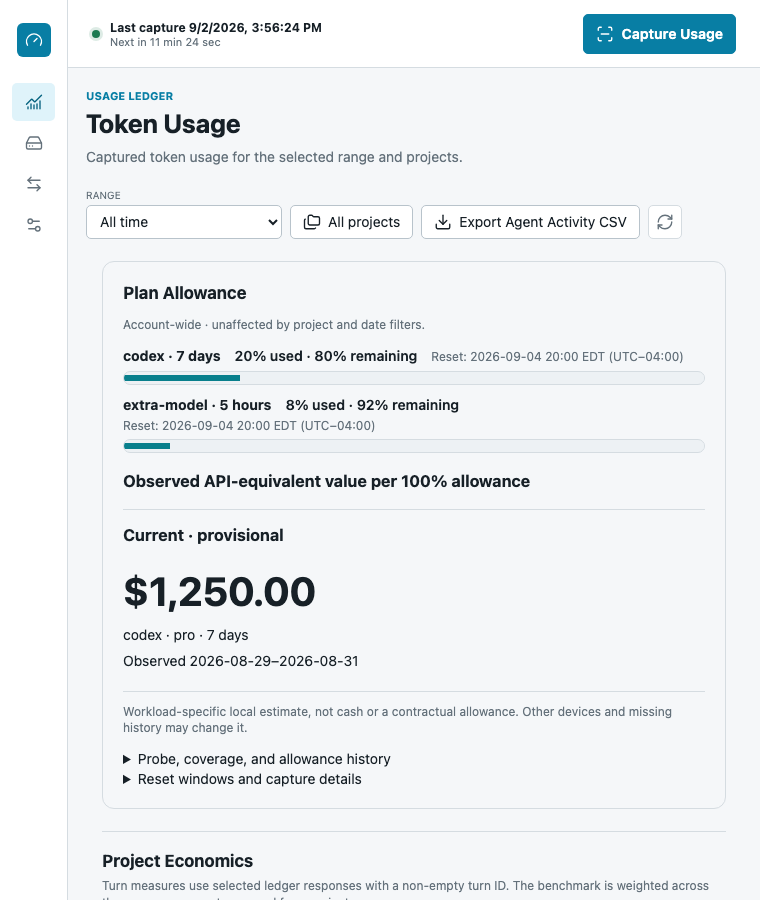
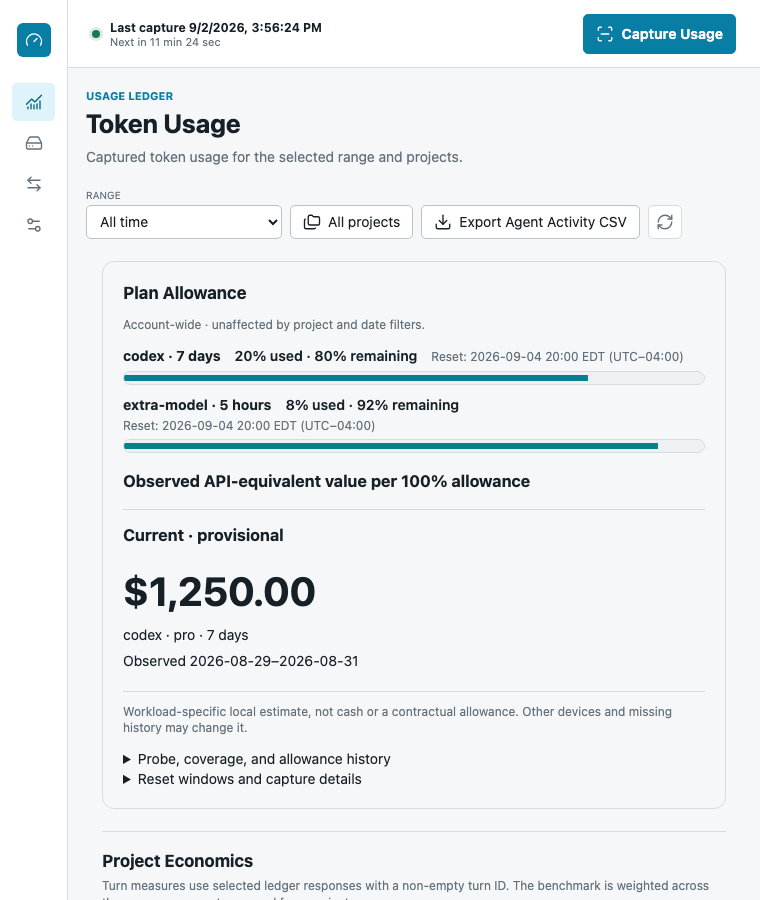
Release Codex Usage 2.8.8

Changed region(s): [[0.2118, 0.4667, 0.8776, 0.4978], [0.3026, 0.4044, 0.7868, 0.4356]]

diff --git a/apps/desktop/src/allowanceFixture.ts b/apps/desktop/src/allowanceFixture.ts
@@ -1,3 +1,3 @@
 // Generated by scripts/allowance_fixture.py; synthetic data only.
-export const allowanceHtml = "<section class=\"card plan-allowance\" id=\"plan-allowance\" aria-labelledby=\"plan-allowance-title\"><h2 id=\"plan-allowance-title\">Plan Allowance</h2><p class=\"muted\">Account-wide \u00b7 unaffected by project and date filters.</p><div class=\"allowance-buckets\"><div class=\"allowance-bucket\"><div class=\"allowance-bucket-summary\"><strong>codex \u00b7 7 days</strong><span class=\"allowance-bucket-usage\">20% used \u00b7 80% remaining</span><span class=\"muted allowance-bucket-reset\">Reset: <time datetime=\"2026-09-04T20:00-04:00\">2026-09-04 20:00 EDT (UTC\u221204:00)</time></span></div><meter min=\"0\" max=\"100\" value=\"20\" aria-label=\"codex \u00b7 7 days percentage used\" aria-valuetext=\"20% used\"></meter></div><div class=\"allowance-bucket\"><div class=\"allowance-bucket-summary\"><strong>extra-model \u00b7 5 hours</strong><span class=\"allowance-bucket-usage\">8% used \u00b7 92% remaining</span><span class=\"muted allowance-bucket-reset\">Reset: <time datetime=\"2026-09-04T20:00-04:00\">2026-09-04 20:00 EDT (UTC\u221204:00)</time></span></div><meter min=\"0\" max=\"100\" value=\"8\" aria-label=\"extra-model \u00b7 5 hours percentage used\" aria-valuetext=\"8% used\"></meter></div></div><h3>Observed API-equivalent value per 100% allowance</h3><div class=\"allowance-economics\"><div class=\"allowance-economic\"><h3>Current \u00b7 provisional</h3><p class=\"allowance-value\">$1,250.00</p><p>codex \u00b7 pro \u00b7 7 days</p><p>Observed 2026-08-29\u20132026-08-31</p></div></div><p class=\"muted\">Workload-specific local estimate, not cash or a contractual allowance. Other devices and missing history may change it.</p><details><summary>Probe, coverage, and allowance history</summary><p>Latest window fit: 20 percentage points, 5 bins, $250.00 local priced usage.</p><p>Plan: pro \u00b7 Probe: fresh \u00b7 Last checked: 2026-08-31T00:00:00+00:00 \u00b7 Last observed: Not captured</p><p>Probe diagnostic: None</p><p>Bounded recovered history: 72 sources checked, 8 pending, 0 unavailable. Endpoint sampling is partial.</p><p>Account lifetime tokens (coverage diagnostic only): 900000000</p><h3>Allowance history</h3><p class=\"muted allowance-history-count\">5 valid priced windows; newest first.</p><ol class=\"allowance-history\" aria-label=\"Allowance estimate history\"><li class=\"allowance-history-item allowance-history-current\"><div class=\"allowance-history-heading\"><span class=\"allowance-history-series\">codex \u00b7 pro \u00b7 7 days</span><strong class=\"allowance-history-value\">$1,250.00</strong></div><p class=\"allowance-history-meta\">Observed 2026-08-29\u20132026-08-31 \u00b7 Current \u00b7 Low/provisional confidence \u00b7 20 percentage points \u00b7 5 bins \u00b7 100% priced \u00b7 complete ledger</p></li><li class=\"allowance-history-item allowance-history-completed\"><div class=\"allowance-history-heading\"><span class=\"allowance-history-series\">codex \u00b7 pro \u00b7 7 days</span><strong class=\"allowance-history-value\">$1,260.00</strong></div><p class=\"allowance-history-meta\">Observed 2026-08-22\u20132026-08-28 \u00b7 Completed \u00b7 High confidence \u00b7 60 percentage points \u00b7 13 bins \u00b7 100% priced \u00b7 complete ledger</p></li><li class=\"allowance-history-item allowance-history-completed\"><div class=\"allowance-history-heading\"><span class=\"allowance-history-series\">codex \u00b7 pro \u00b7 7 days</span><strong class=\"allowance-history-value\">$1,220.00</strong></div><p class=\"allowance-history-meta\">Observed 2026-08-15\u20132026-08-21 \u00b7 Completed \u00b7 High confidence \u00b7 60 percentage points \u00b7 13 bins \u00b7 100% priced \u00b7 complete ledger</p></li><li class=\"allowance-history-item allowance-history-completed\"><div class=\"allowance-history-heading\"><span class=\"allowance-history-series\">codex \u00b7 pro \u00b7 7 days</span><strong class=\"allowance-history-value\">$1,240.00</strong></div><p class=\"allowance-history-meta\">Observed 2026-08-08\u20132026-08-14 \u00b7 Completed \u00b7 High confidence \u00b7 60 percentage points \u00b7 13 bins \u00b7 100% priced \u00b7 complete ledger</p></li><li class=\"allowance-history-item allowance-history-completed\"><div class=\"allowance-history-heading\"><span class=\"allowance-history-series\">codex \u00b7 pro \u00b7 7 days</span><strong class=\"allowance-history-value\">$1,180.00</strong></div><p class=\"allowance-history-meta\">Observed 2026-08-01\u20132026-08-07 \u00b7 Completed \u00b7 High confidence \u00b7 60 percentage points \u00b7 13 bins \u00b7 100% priced \u00b7 complete ledger</p></li></ol></details><details><summary>Reset windows and capture details</summary><p>Earlier qualified estimates (latest 3 of 4; all reset windows below):</p><ul><li>codex \u00b7 pro \u00b7 7 days \u00b7 Observed 2026-08-22\u20132026-08-28 \u00b7 $1,260.00 \u00b7 High</li><li>codex \u00b7 pro \u00b7 7 days \u00b7 Observed 2026-08-15\u20132026-08-21 \u00b7 $1,220.00 \u00b7 High</li><li>codex \u00b7 pro \u00b7 7 days \u00b7 Observed 2026-08-08\u20132026-08-14 \u00b7 $1,240.00 \u00b7 High</li></ul><details class=\"allowance-window allowance-provisional\"><summary>codex \u00b7 2026-08-29\u20132026-08-31 \u00b7 Low/provisional \u00b7 ongoing</summary><p>pro \u00b7 10080 min \u00b7 20 percentage points \u00b7 5 bins \u00b7 local cost span $250.00 \u00b7 $1,250.00</p><p>100% priced \u00b7 Complete local ledger</p><p>R\u00b2 1.000 \u00b7 sensitivity P90/P10 1.0 \u00b7 0 meter corrections</p><details><summary>Captured observations (5)</summary><p>All observations shown.</p><div class=\"table-scroll\"><table><thead><tr><th>Captured at</th><th>Used</th><th>Slot</th><th>Reset (Unix seconds)</th></tr></thead><tbody><tr><td>2026-08-29T00:00:00+00:00</td><td>0%</td><td>primary \u00b7 Recovered</td><td>1788566400</td></tr><tr><td>2026-08-29T12:00:00+00:00</td><td>5%</td><td>primary \u00b7 Recovered</td><td>1788566400</td></tr><tr><td>2026-08-30T00:00:00+00:00</td><td>10%</td><td>primary \u00b7 Recovered</td><td>1788566400</td></tr><tr><td>2026-08-30T12:00:00+00:00</td><td>15%</td><td>primary \u00b7 Recovered</td><td>1788566400</td></tr><tr><td>2026-08-31T00:00:00+00:00</td><td>20%</td><td>primary \u00b7 Recovered</td><td>1788566400</td></tr></tbody></table></div></details></details><details class=\"allowance-window\"><summary>codex \u00b7 2026-08-22\u20132026-08-28 \u00b7 High \u00b7 scheduled-compatible</summary><p>pro \u00b7 10080 min \u00b7 60 percentage points \u00b7 13 bins \u00b7 local cost span $756.00 \u00b7 $1,260.00</p><p>100% priced \u00b7 Complete local ledger</p><p>R\u00b2 1.000 \u00b7 sensitivity P90/P10 1.0 \u00b7 0 meter corrections</p><details><summary>Captured observations (13)</summary><p>All observations shown.</p><div class=\"table-scroll\"><table><thead><tr><th>Captured at</th><th>Used</th><th>Slot</th><th>Reset (Unix seconds)</th></tr></thead><tbody><tr><td>2026-08-22T00:00:00+00:00</td><td>0%</td><td>primary \u00b7 Recovered</td><td>1787961600</td></tr><tr><td>2026-08-22T12:00:00+00:00</td><td>5%</td><td>primary \u00b7 Recovered</td><td>1787961600</td></tr><tr><td>2026-08-23T00:00:00+00:00</td><td>10%</td><td>primary \u00b7 Recovered</td><td>1787961600</td></tr><tr><td>2026-08-23T12:00:00+00:00</td><td>15%</td><td>primary \u00b7 Recovered</td><td>1787961600</td></tr><tr><td>2026-08-24T00:00:00+00:00</td><td>20%</td><td>primary \u00b7 Recovered</td><td>1787961600</td></tr><tr><td>2026-08-24T12:00:00+00:00</td><td>25%</td><td>primary \u00b7 Recovered</td><td>1787961600</td></tr><tr><td>2026-08-25T00:00:00+00:00</td><td>30%</td><td>primary \u00b7 Recovered</td><td>1787961600</td></tr><tr><td>2026-08-25T12:00:00+00:00</td><td>35%</td><td>primary \u00b7 Recovered</td><td>1787961600</td></tr><tr><td>2026-08-26T00:00:00+00:00</td><td>40%</td><td>primary \u00b7 Recovered</td><td>1787961600</td></tr><tr><td>2026-08-26T12:00:00+00:00</td><td>45%</td><td>primary \u00b7 Recovered</td><td>1787961600</td></tr><tr><td>2026-08-27T00:00:00+00:00</td><td>50%</td><td>primary \u00b7 Recovered</td><td>1787961600</td></tr><tr><td>2026-08-27T12:00:00+00:00</td><td>55%</td><td>primary \u00b7 Recovered</td><td>1787961600</td></tr><tr><td>2026-08-28T00:00:00+00:00</td><td>60%</td><td>primary \u00b7 Recovered</td><td>1787961600</td></tr></tbody></table></div></details></details><details class=\"allowance-window\"><summary>codex \u00b7 2026-08-15\u20132026-08-21 \u00b7 High \u00b7 scheduled-compatible</summary><p>pro \u00b7 10080 min \u00b7 60 percentage points \u00b7 13 bins \u00b7 local cost span $732.00 \u00b7 $1,220.00</p><p>100% priced \u00b7 Complete local ledger</p><p>R\u00b2 1.000 \u00b7 sensitivity P90/P10 1.0 \u00b7 0 meter corrections</p><details><summary>Captured observations (13)</summary><p>All observations shown.</p><div class=\"table-scroll\"><table><thead><tr><th>Captured at</th><th>Used</th><th>Slot</th><th>Reset (Unix seconds)</th></tr></thead><tbody><tr><td>2026-08-15T00:00:00+00:00</td><td>0%</td><td>primary \u00b7 Recovered</td><td>1787356800</td></tr><tr><td>2026-08-15T12:00:00+00:00</td><td>5%</td><td>primary \u00b7 Recovered</td><td>1787356800</td></tr><tr><td>2026-08-16T00:00:00+00:00</td><td>10%</td><td>primary \u00b7 Recovered</td><td>1787356800</td></tr><tr><td>2026-08-16T12:00:00+00:00</td><td>15%</td><td>primary \u00b7 Recovered</td><td>1787356800</td></tr><tr><td>2026-08-17T00:00:00+00:00</td><td>20%</td><td>primary \u00b7 Recovered</td><td>1787356800</td></tr><tr><td>2026-08-17T12:00:00+00:00</td><td>25%</td><td>primary \u00b7 Recovered</td><td>1787356800</td></tr><tr><td>2026-08-18T00:00:00+00:00</td><td>30%</td><td>primary \u00b7 Recovered</td><td>1787356800</td></tr><tr><td>2026-08-18T12:00:00+00:00</td><td>35%</td><td>primary \u00b7 Recovered</td><td>1787356800</td></tr><tr><td>2026-08-19T00:00:00+00:00</td><td>40%</td><td>primary \u00b7 Recovered</td><td>1787356800</td></tr><tr><td>2026-08-19T12:00:00+00:00</td><td>45%</td><td>primary \u00b7 Recovered</td><td>1787356800</td></tr><tr><td>2026-08-20T00:00:00+00:00</td><td>50%</td><td>primary \u00b7 Recovered</td><td>1787356800</td></tr><tr><td>2026-08-20T12:00:00+00:00</td><td>55%</td><td>primary \u00b7 Recovered</td><td>1787356800</td></tr><tr><td>2026-08-21T00:00:00+00:00</td><td>60%</td><td>primary \u00b7 Recovered</td><td>1787356800</td></tr></tbody></table></div></details></details><details class=\"allowance-window\"><summary>codex \u00b7 2026-08-08\u20132026-08-14 \u00b7 High \u00b7 scheduled-compatible</summary><p>pro \u00b7 10080 min \u00b7 60 percentage points \u00b7 13 bins \u00b7 local cost span $744.00 \u00b7 $1,240.00</p><p>100% priced \u00b7 Complete local ledger</p><p>R\u00b2 1.000 \u00b7 sensitivity P90/P10 1.0 \u00b7 0 meter corrections</p><details><summary>Captured observations (13)</summary><p>All observations shown.</p><div class=\"table-scroll\"><table><thead><tr><th>Captured at</th><th>Used</th><th>Slot</th><th>Reset (Unix seconds)</th></tr></thead><tbody><tr><td>2026-08-08T00:00:00+00:00</td><td>0%</td><td>primary \u00b7 Recovered</td><td>1786752000</td></tr><tr><td>2026-08-08T12:00:00+00:00</td><td>5%</td><td>primary \u00b7 Recovered</td><td>1786752000</td></tr><tr><td>2026-08-09T00:00:00+00:00</td><td>10%</td><td>primary \u00b7 Recovered</td><td>1786752000</td></tr><tr><td>2026-08-09T12:00:00+00:00</td><td>15%</td><td>primary \u00b7 Recovered</td><td>1786752000</td></tr><tr><td>2026-08-10T00:00:00+00:00</td><td>20%</td><td>primary \u00b7 Recovered</td><td>1786752000</td></tr><tr><td>2026-08-10T12:00:00+00:00</td><td>25%</td><td>primary \u00b7 Recovered</td><td>1786752000</td></tr><tr><td>2026-08-11T00:00:00+00:00</td><td>30%</td><td>primary \u00b7 Recovered</td><td>1786752000</td></tr><tr><td>2026-08-11T12:00:00+00:00</td><td>35%</td><td>primary \u00b7 Recovered</td><td>1786752000</td></tr><tr><td>2026-08-12T00:00:00+00:00</td><td>40%</td><td>primary \u00b7 Recovered</td><td>1786752000</td></tr><tr><td>2026-08-12T12:00:00+00:00</td><td>45%</td><td>primary \u00b7 Recovered</td><td>1786752000</td></tr><tr><td>2026-08-13T00:00:00+00:00</td><td>50%</td><td>primary \u00b7 Recovered</td><td>1786752000</td></tr><tr><td>2026-08-13T12:00:00+00:00</td><td>55%</td><td>primary \u00b7 Recovered</td><td>1786752000</td></tr><tr><td>2026-08-14T00:00:00+00:00</td><td>60%</td><td>primary \u00b7 Recovered</td><td>1786752000</td></tr></tbody></table></div></details></details><details class=\"allowance-window\"><summary>codex \u00b7 2026-08-01\u20132026-08-07 \u00b7 High \u00b7 scheduled-compatible</summary><p>pro \u00b7 10080 min \u00b7 60 percentage points \u00b7 13 bins \u00b7 local cost span $708.00 \u00b7 $1,180.00</p><p>100% priced \u00b7 Complete local ledger</p><p>R\u00b2 1.000 \u00b7 sensitivity P90/P10 1.0 \u00b7 0 meter corrections</p><details><summary>Captured observations (13)</summary><p>All observations shown.</p><div class=\"table-scroll\"><table><thead><tr><th>Captured at</th><th>Used</th><th>Slot</th><th>Reset (Unix seconds)</th></tr></thead><tbody><tr><td>2026-08-01T00:00:00+00:00</td><td>0%</td><td>primary \u00b7 Recovered</td><td>1786147200</td></tr><tr><td>2026-08-01T12:00:00+00:00</td><td>5%</td><td>primary \u00b7 Recovered</td><td>1786147200</td></tr><tr><td>2026-08-02T00:00:00+00:00</td><td>10%</td><td>primary \u00b7 Recovered</td><td>1786147200</td></tr><tr><td>2026-08-02T12:00:00+00:00</td><td>15%</td><td>primary \u00b7 Recovered</td><td>1786147200</td></tr><tr><td>2026-08-03T00:00:00+00:00</td><td>20%</td><td>primary \u00b7 Recovered</td><td>1786147200</td></tr><tr><td>2026-08-03T12:00:00+00:00</td><td>25%</td><td>primary \u00b7 Recovered</td><td>1786147200</td></tr><tr><td>2026-08-04T00:00:00+00:00</td><td>30%</td><td>primary \u00b7 Recovered</td><td>1786147200</td></tr><tr><td>2026-08-04T12:00:00+00:00</td><td>35%</td><td>primary \u00b7 Recovered</td><td>1786147200</td></tr><tr><td>2026-08-05T00:00:00+00:00</td><td>40%</td><td>primary \u00b7 Recovered</td><td>1786147200</td></tr><tr><td>2026-08-05T12:00:00+00:00</td><td>45%</td><td>primary \u00b7 Recovered</td><td>1786147200</td></tr><tr><td>2026-08-06T00:00:00+00:00</td><td>50%</td><td>primary \u00b7 Recovered</td><td>1786147200</td></tr><tr><td>2026-08-06T12:00:00+00:00</td><td>55%</td><td>primary \u00b7 Recovered</td><td>1786147200</td></tr><tr><td>2026-08-07T00:00:00+00:00</td><td>60%</td><td>primary \u00b7 Recovered</td><td>1786147200</td></tr></tbody></table></div></details></details></details></section>";
+export const allowanceHtml = "<section class=\"card plan-allowance\" id=\"plan-allowance\" aria-labelledby=\"plan-allowance-title\"><h2 id=\"plan-allowance-title\">Plan Allowance</h2><p class=\"muted\">Account-wide \u00b7 unaffected by project and date filters.</p><div class=\"allowance-buckets\"><div class=\"allowance-bucket\"><div class=\"allowance-bucket-summary\"><strong>codex \u00b7 7 days</strong><span class=\"allowance-bucket-usage\">20% used \u00b7 80% remaining</span><span class=\"muted allowance-bucket-reset\">Reset: <time datetime=\"2026-09-04T20:00-04:00\">2026-09-04 20:00 EDT (UTC\u221204:00)</time></span></div><meter min=\"0\" max=\"100\" value=\"80\" aria-label=\"codex \u00b7 7 days percentage remaining\" aria-valuetext=\"80% remaining\"></meter></div><div class=\"allowance-bucket\"><div class=\"allowance-bucket-summary\"><strong>extra-model \u00b7 5 hours</strong><span class=\"allowance-bucket-usage\">8% used \u00b7 92% remaining</span><span class=\"muted allowance-bucket-reset\">Reset: <time datetime=\"2026-09-04T20:00-04:00\">2026-09-04 20:00 EDT (UTC\u221204:00)</time></span></div><meter min=\"0\" max=\"100\" value=\"92\" aria-label=\"extra-model \u00b7 5 hours percentage remaining\" aria-valuetext=\"92% remaining\"></meter></div></div><h3>Observed API-equivalent value per 100% allowance</h3><div class=\"allowance-economics\"><div class=\"allowance-economic\"><h3>Current \u00b7 provisional</h3><p class=\"allowance-value\">$1,250.00</p><p>codex \u00b7 pro \u00b7 7 days</p><p>Observed 2026-08-29\u20132026-08-31</p></div></div><p class=\"muted\">Workload-specific local estimate, not cash or a contractual allowance. Other devices and missing history may change it.</p><details><summary>Probe, coverage, and allowance history</summary><p>Latest window fit: 20 percentage points, 5 bins, $250.00 local priced usage.</p><p>Plan: pro \u00b7 Probe: fresh \u00b7 Last checked: 2026-08-31T00:00:00+00:00 \u00b7 Last observed: Not captured</p><p>Probe diagnostic: None</p><p>Bounded recovered history: 72 sources checked, 8 pending, 0 unavailable. Endpoint sampling is partial.</p><p>Account lifetime tokens (coverage diagnostic only): 900000000</p><h3>Allowance history</h3><p class=\"muted allowance-history-count\">5 valid priced windows; newest first.</p><ol class=\"allowance-history\" aria-label=\"Allowance estimate history\"><li class=\"allowance-history-item allowance-history-current\"><div class=\"allowance-history-heading\"><span class=\"allowance-history-series\">codex \u00b7 pro \u00b7 7 days</span><strong class=\"allowance-history-value\">$1,250.00</strong></div><p class=\"allowance-history-meta\">Observed 2026-08-29\u20132026-08-31 \u00b7 Current \u00b7 Low/provisional confidence \u00b7 20 percentage points \u00b7 5 bins \u00b7 100% priced \u00b7 complete ledger</p></li><li class=\"allowance-history-item allowance-history-completed\"><div class=\"allowance-history-heading\"><span class=\"allowance-history-series\">codex \u00b7 pro \u00b7 7 days</span><strong class=\"allowance-history-value\">$1,260.00</strong></div><p class=\"allowance-history-meta\">Observed 2026-08-22\u20132026-08-28 \u00b7 Completed \u00b7 High confidence \u00b7 60 percentage points \u00b7 13 bins \u00b7 100% priced \u00b7 complete ledger</p></li><li class=\"allowance-history-item allowance-history-completed\"><div class=\"allowance-history-heading\"><span class=\"allowance-history-series\">codex \u00b7 pro \u00b7 7 days</span><strong class=\"allowance-history-value\">$1,220.00</strong></div><p class=\"allowance-history-meta\">Observed 2026-08-15\u20132026-08-21 \u00b7 Completed \u00b7 High confidence \u00b7 60 percentage points \u00b7 13 bins \u00b7 100% priced \u00b7 complete ledger</p></li><li class=\"allowance-history-item allowance-history-completed\"><div class=\"allowance-history-heading\"><span class=\"allowance-history-series\">codex \u00b7 pro \u00b7 7 days</span><strong class=\"allowance-history-value\">$1,240.00</strong></div><p class=\"allowance-history-meta\">Observed 2026-08-08\u20132026-08-14 \u00b7 Completed \u00b7 High confidence \u00b7 60 percentage points \u00b7 13 bins \u00b7 100% priced \u00b7 complete ledger</p></li><li class=\"allowance-history-item allowance-history-completed\"><div class=\"allowance-history-heading\"><span class=\"allowance-history-series\">codex \u00b7 pro \u00b7 7 days</span><strong class=\"allowance-history-value\">$1,180.00</strong></div><p class=\"allowance-history-meta\">Observed 2026-08-01\u20132026-08-07 \u00b7 Completed \u00b7 High confidence \u00b7 60 percentage points \u00b7 13 bins \u00b7 100% priced \u00b7 complete ledger</p></li></ol></details><details><summary>Reset windows and capture details</summary><p>Earlier qualified estimates (latest 3 of 4; all reset windows below):</p><ul><li>codex \u00b7 pro \u00b7 7 days \u00b7 Observed 2026-08-22\u20132026-08-28 \u00b7 $1,260.00 \u00b7 High</li><li>codex \u00b7 pro \u00b7 7 days \u00b7 Observed 2026-08-15\u20132026-08-21 \u00b7 $1,220.00 \u00b7 High</li><li>codex \u00b7 pro \u00b7 7 days \u00b7 Observed 2026-08-08\u20132026-08-14 \u00b7 $1,240.00 \u00b7 High</li></ul><details class=\"allowance-window allowance-provisional\"><summary>codex \u00b7 2026-08-29\u20132026-08-31 \u00b7 Low/provisional \u00b7 ongoing</summary><p>pro \u00b7 10080 min \u00b7 20 percentage points \u00b7 5 bins \u00b7 local cost span $250.00 \u00b7 $1,250.00</p><p>100% priced \u00b7 Complete local ledger</p><p>R\u00b2 1.000 \u00b7 sensitivity P90/P10 1.0 \u00b7 0 meter corrections</p><details><summary>Captured observations (5)</summary><p>All observations shown.</p><div class=\"table-scroll\"><table><thead><tr><th>Captured at</th><th>Used</th><th>Slot</th><th>Reset (Unix seconds)</th></tr></thead><tbody><tr><td>2026-08-29T00:00:00+00:00</td><td>0%</td><td>primary \u00b7 Recovered</td><td>1788566400</td></tr><tr><td>2026-08-29T12:00:00+00:00</td><td>5%</td><td>primary \u00b7 Recovered</td><td>1788566400</td></tr><tr><td>2026-08-30T00:00:00+00:00</td><td>10%</td><td>primary \u00b7 Recovered</td><td>1788566400</td></tr><tr><td>2026-08-30T12:00:00+00:00</td><td>15%</td><td>primary \u00b7 Recovered</td><td>1788566400</td></tr><tr><td>2026-08-31T00:00:00+00:00</td><td>20%</td><td>primary \u00b7 Recovered</td><td>1788566400</td></tr></tbody></table></div></details></details><details class=\"allowance-window\"><summary>codex \u00b7 2026-08-22\u20132026-08-28 \u00b7 High \u00b7 scheduled-compatible</summary><p>pro \u00b7 10080 min \u00b7 60 percentage points \u00b7 13 bins \u00b7 local cost span $756.00 \u00b7 $1,260.00</p><p>100% priced \u00b7 Complete local ledger</p><p>R\u00b2 1.000 \u00b7 sensitivity P90/P10 1.0 \u00b7 0 meter corrections</p><details><summary>Captured observations (13)</summary><p>All observations shown.</p><div class=\"table-scroll\"><table><thead><tr><th>Captured at</th><th>Used</th><th>Slot</th><th>Reset (Unix seconds)</th></tr></thead><tbody><tr><td>2026-08-22T00:00:00+00:00</td><td>0%</td><td>primary \u00b7 Recovered</td><td>1787961600</td></tr><tr><td>2026-08-22T12:00:00+00:00</td><td>5%</td><td>primary \u00b7 Recovered</td><td>1787961600</td></tr><tr><td>2026-08-23T00:00:00+00:00</td><td>10%</td><td>primary \u00b7 Recovered</td><td>1787961600</td></tr><tr><td>2026-08-23T12:00:00+00:00</td><td>15%</td><td>primary \u00b7 Recovered</td><td>1787961600</td></tr><tr><td>2026-08-24T00:00:00+00:00</td><td>20%</td><td>primary \u00b7 Recovered</td><td>1787961600</td></tr><tr><td>2026-08-24T12:00:00+00:00</td><td>25%</td><td>primary \u00b7 Recovered</td><td>1787961600</td></tr><tr><td>2026-08-25T00:00:00+00:00</td><td>30%</td><td>primary \u00b7 Recovered</td><td>1787961600</td></tr><tr><td>2026-08-25T12:00:00+00:00</td><td>35%</td><td>primary \u00b7 Recovered</td><td>1787961600</td></tr><tr><td>2026-08-26T00:00:00+00:00</td><td>40%</td><td>primary \u00b7 Recovered</td><td>1787961600</td></tr><tr><td>2026-08-26T12:00:00+00:00</td><td>45%</td><td>primary \u00b7 Recovered</td><td>1787961600</td></tr><tr><td>2026-08-27T00:00:00+00:00</td><td>50%</td><td>primary \u00b7 Recovered</td><td>1787961600</td></tr><tr><td>2026-08-27T12:00:00+00:00</td><td>55%</td><td>primary \u00b7 Recovered</td><td>1787961600</td></tr><tr><td>2026-08-28T00:00:00+00:00</td><td>60%</td><td>primary \u00b7 Recovered</td><td>1787961600</td></tr></tbody></table></div></details></details><details class=\"allowance-window\"><summary>codex \u00b7 2026-08-15\u20132026-08-21 \u00b7 High \u00b7 scheduled-compatible</summary><p>pro \u00b7 10080 min \u00b7 60 percentage points \u00b7 13 bins \u00b7 local cost span $732.00 \u00b7 $1,220.00</p><p>100% priced \u00b7 Complete local ledger</p><p>R\u00b2 1.000 \u00b7 sensitivity P90/P10 1.0 \u00b7 0 meter corrections</p><details><summary>Captured observations (13)</summary><p>All observations shown.</p><div class=\"table-scroll\"><table><thead><tr><th>Captured at</th><th>Used</th><th>Slot</th><th>Reset (Unix seconds)</th></tr></thead><tbody><tr><td>2026-08-15T00:00:00+00:00</td><td>0%</td><td>primary \u00b7 Recovered</td><td>1787356800</td></tr><tr><td>2026-08-15T12:00:00+00:00</td><td>5%</td><td>primary \u00b7 Recovered</td><td>1787356800</td></tr><tr><td>2026-08-16T00:00:00+00:00</td><td>10%</td><td>primary \u00b7 Recovered</td><td>1787356800</td></tr><tr><td>2026-08-16T12:00:00+00:00</td><td>15%</td><td>primary \u00b7 Recovered</td><td>1787356800</td></tr><tr><td>2026-08-17T00:00:00+00:00</td><td>20%</td><td>primary \u00b7 Recovered</td><td>1787356800</td></tr><tr><td>2026-08-17T12:00:00+00:00</td><td>25%</td><td>primary \u00b7 Recovered</td><td>1787356800</td></tr><tr><td>2026-08-18T00:00:00+00:00</td><td>30%</td><td>primary \u00b7 Recovered</td><td>1787356800</td></tr><tr><td>2026-08-18T12:00:00+00:00</td><td>35%</td><td>primary \u00b7 Recovered</td><td>1787356800</td></tr><tr><td>2026-08-19T00:00:00+00:00</td><td>40%</td><td>primary \u00b7 Recovered</td><td>1787356800</td></tr><tr><td>2026-08-19T12:00:00+00:00</td><td>45%</td><td>primary \u00b7 Recovered</td><td>1787356800</td></tr><tr><td>2026-08-20T00:00:00+00:00</td><td>50%</td><td>primary \u00b7 Recovered</td><td>1787356800</td></tr><tr><td>2026-08-20T12:00:00+00:00</td><td>55%</td><td>primary \u00b7 Recovered</td><td>1787356800</td></tr><tr><td>2026-08-21T00:00:00+00:00</td><td>60%</td><td>primary \u00b7 Recovered</td><td>1787356800</td></tr></tbody></table></div></details></details><details class=\"allowance-window\"><summary>codex \u00b7 2026-08-08\u20132026-08-14 \u00b7 High \u00b7 scheduled-compatible</summary><p>pro \u00b7 10080 min \u00b7 60 percentage points \u00b7 13 bins \u00b7 local cost span $744.00 \u00b7 $1,240.00</p><p>100% priced \u00b7 Complete local ledger</p><p>R\u00b2 1.000 \u00b7 sensitivity P90/P10 1.0 \u00b7 0 meter corrections</p><details><summary>Captured observations (13)</summary><p>All observations shown.</p><div class=\"table-scroll\"><table><thead><tr><th>Captured at</th><th>Used</th><th>Slot</th><th>Reset (Unix seconds)</th></tr></thead><tbody><tr><td>2026-08-08T00:00:00+00:00</td><td>0%</td><td>primary \u00b7 Recovered</td><td>1786752000</td></tr><tr><td>2026-08-08T12:00:00+00:00</td><td>5%</td><td>primary \u00b7 Recovered</td><td>1786752000</td></tr><tr><td>2026-08-09T00:00:00+00:00</td><td>10%</td><td>primary \u00b7 Recovered</td><td>1786752000</td></tr><tr><td>2026-08-09T12:00:00+00:00</td><td>15%</td><td>primary \u00b7 Recovered</td><td>1786752000</td></tr><tr><td>2026-08-10T00:00:00+00:00</td><td>20%</td><td>primary \u00b7 Recovered</td><td>1786752000</td></tr><tr><td>2026-08-10T12:00:00+00:00</td><td>25%</td><td>primary \u00b7 Recovered</td><td>1786752000</td></tr><tr><td>2026-08-11T00:00:00+00:00</td><td>30%</td><td>primary \u00b7 Recovered</td><td>1786752000</td></tr><tr><td>2026-08-11T12:00:00+00:00</td><td>35%</td><td>primary \u00b7 Recovered</td><td>1786752000</td></tr><tr><td>2026-08-12T00:00:00+00:00</td><td>40%</td><td>primary \u00b7 Recovered</td><td>1786752000</td></tr><tr><td>2026-08-12T12:00:00+00:00</td><td>45%</td><td>primary \u00b7 Recovered</td><td>1786752000</td></tr><tr><td>2026-08-13T00:00:00+00:00</td><td>50%</td><td>primary \u00b7 Recovered</td><td>1786752000</td></tr><tr><td>2026-08-13T12:00:00+00:00</td><td>55%</td><td>primary \u00b7 Recovered</td><td>1786752000</td></tr><tr><td>2026-08-14T00:00:00+00:00</td><td>60%</td><td>primary \u00b7 Recovered</td><td>1786752000</td></tr></tbody></table></div></details></details><details class=\"allowance-window\"><summary>codex \u00b7 2026-08-01\u20132026-08-07 \u00b7 High \u00b7 scheduled-compatible</summary><p>pro \u00b7 10080 min \u00b7 60 percentage points \u00b7 13 bins \u00b7 local cost span $708.00 \u00b7 $1,180.00</p><p>100% priced \u00b7 Complete local ledger</p><p>R\u00b2 1.000 \u00b7 sensitivity P90/P10 1.0 \u00b7 0 meter corrections</p><details><summary>Captured observations (13)</summary><p>All observations shown.</p><div class=\"table-scroll\"><table><thead><tr><th>Captured at</th><th>Used</th><th>Slot</th><th>Reset (Unix seconds)</th></tr></thead><tbody><tr><td>2026-08-01T00:00:00+00:00</td><td>0%</td><td>primary \u00b7 Recovered</td><td>1786147200</td></tr><tr><td>2026-08-01T12:00:00+00:00</td><td>5%</td><td>primary \u00b7 Recovered</td><td>1786147200</td></tr><tr><td>2026-08-02T00:00:00+00:00</td><td>10%</td><td>primary \u00b7 Recovered</td><td>1786147200</td></tr><tr><td>2026-08-02T12:00:00+00:00</td><td>15%</td><td>primary \u00b7 Recovered</td><td>1786147200</td></tr><tr><td>2026-08-03T00:00:00+00:00</td><td>20%</td><td>primary \u00b7 Recovered</td><td>1786147200</td></tr><tr><td>2026-08-03T12:00:00+00:00</td><td>25%</td><td>primary \u00b7 Recovered</td><td>1786147200</td></tr><tr><td>2026-08-04T00:00:00+00:00</td><td>30%</td><td>primary \u00b7 Recovered</td><td>1786147200</td></tr><tr><td>2026-08-04T12:00:00+00:00</td><td>35%</td><td>primary \u00b7 Recovered</td><td>1786147200</td></tr><tr><td>2026-08-05T00:00:00+00:00</td><td>40%</td><td>primary \u00b7 Recovered</td><td>1786147200</td></tr><tr><td>2026-08-05T12:00:00+00:00</td><td>45%</td><td>primary \u00b7 Recovered</td><td>1786147200</td></tr><tr><td>2026-08-06T00:00:00+00:00</td><td>50%</td><td>primary \u00b7 Recovered</td><td>1786147200</td></tr><tr><td>2026-08-06T12:00:00+00:00</td><td>55%</td><td>primary \u00b7 Recovered</td><td>1786147200</td></tr><tr><td>2026-08-07T00:00:00+00:00</td><td>60%</td><td>primary \u00b7 Recovered</td><td>1786147200</td></tr></tbody></table></div></details></details></details></section>";
 export const allowanceCss = "\n.plan-allowance { margin: 18px 0; padding: 20px; border: 1px solid var(--border, var(--line)); border-radius: 12px; overflow-wrap: anywhere; }\n.allowance-buckets { display: grid; grid-template-columns: repeat(auto-fit,minmax(min(320px,100%),1fr)); gap: 10px 18px; }\n.allowance-bucket { min-width: 0; }\n.allowance-bucket-summary { display: flex; align-items: baseline; flex-wrap: wrap; column-gap: 14px; row-gap: 3px; }\n.allowance-bucket-summary > * { min-width: 0; margin: 0; }\n.allowance-bucket-usage { font-weight: 600; }\n.allowance-bucket-reset { overflow-wrap: anywhere; }\n.allowance-economics { border-top: 1px solid var(--border, var(--line)); border-bottom: 1px solid var(--border, var(--line)); padding: 14px 0; }\n.allowance-economic { min-width: 0; }\n.allowance-economic h3 { margin-top: 0; }\n.allowance-economic p { margin: 6px 0; }\n.allowance-economic .allowance-value { font-size: 2.5rem; }\n.allowance-bucket meter { -webkit-appearance: none; appearance: none; display: block; width: 100%; height: 14px; margin-top: 5px; padding: 0; color: var(--accent, var(--astra, #087ea4)); background: var(--surface-soft, var(--soft, #edf1f4)); border: 1px solid var(--border, var(--line, #d5dce1)); border-radius: 999px; overflow: hidden; }\n.allowance-bucket meter::-webkit-meter-bar { background: var(--surface-soft, var(--soft, #edf1f4)); border: 0; border-radius: inherit; }\n.allowance-bucket meter::-webkit-meter-optimum-value,\n.allowance-bucket meter::-webkit-meter-suboptimum-value,\n.allowance-bucket meter::-webkit-meter-even-less-good-value { background: var(--accent, var(--astra, #087ea4)); border-radius: inherit; }\n.allowance-bucket meter::-moz-meter-bar { background: var(--accent, var(--astra, #087ea4)); border-radius: inherit; }\n.allowance-history { list-style: none; margin: 8px 0 0; padding: 0; }\n.allowance-history-item { min-width: 0; padding: 9px 0; border-top: 1px solid var(--border, var(--line)); }\n.allowance-history-heading { display: flex; align-items: baseline; justify-content: space-between; flex-wrap: wrap; gap: 4px 12px; min-width: 0; }\n.allowance-history-series { min-width: 0; font-weight: 600; overflow-wrap: anywhere; }\n.allowance-history-value { font-variant-numeric: tabular-nums; overflow-wrap: anywhere; }\n.allowance-history-meta { margin: 4px 0 0; color: var(--muted, #64717b); overflow-wrap: anywhere; }\n.allowance-history-count { margin: 6px 0 0; }\n.allowance-value { font-size: 1.35rem; font-weight: 700; }\n.allowance-window { margin: 12px 0; padding: 10px; border: 1px solid var(--border, var(--line)); }\n.allowance-provisional { border-style: dashed; }\n.plan-allowance summary { cursor: pointer; }\n.plan-allowance summary:focus-visible { outline: 2px solid var(--accent, var(--astra, #087ea4)); outline-offset: 2px; border-radius: 2px; }\n.plan-allowance .table-scroll { overflow-x: auto; }\n";

diff --git a/apps/desktop/src/usageFixtureReport.ts b/apps/desktop/src/usageFixtureReport.ts
@@ -222,8 +222,8 @@ ${allowanceHtml}
   </tbody></table></div></details>
 </section>
 <section class="section usage-comparison">
-  <input class="scale-input" type="radio" name="usage-chart-scale" id="compare-scale-tokens" value="tokens" checked>
-  <input class="scale-input" type="radio" name="usage-chart-scale" id="compare-scale-cost" value="cost">
+  <input class="scale-input" type="radio" name="usage-chart-scale" id="compare-scale-tokens" value="tokens">
+  <input class="scale-input" type="radio" name="usage-chart-scale" id="compare-scale-cost" value="cost" checked>
   <div class="scale-toolbar"><span>Compare by</span><span class="scale-options" role="group" aria-label="Compare chart bars by"><label for="compare-scale-tokens">Tokens</label><label for="compare-scale-cost">API cost</label></span></div>
   <div class="comparison-charts">
 <section class="section">

diff --git a/scripts/generate_marketplace_screenshot.py b/scripts/generate_marketplace_screenshot.py
@@ -282,33 +282,33 @@ def _exercise_usage_chart_controls(page: Page) -> None:
                         f"viewport={viewport}"
                     )
 
-            if not token_control.is_checked():
-                raise RuntimeError("usage fixture did not start from the token scale")
-            token_box = role_fill.bounding_box()
-            model_token_box = model_fill.bounding_box()
-            if token_box is None:
+            if not cost_control.is_checked():
+                raise RuntimeError("usage fixture did not default to API cost")
+            cost_box = role_fill.bounding_box()
+            model_cost_box = model_fill.bounding_box()
+            if cost_box is None:
                 raise RuntimeError(
                     "usage fixture is missing the project role scale probe"
                 )
-            if model_token_box is None:
+            if model_cost_box is None:
                 raise RuntimeError("usage fixture is missing the Model Mix scale probe")
 
-            token_control.focus()
-            token_control.press("ArrowRight")
-            if not cost_control.is_checked():
-                raise RuntimeError("usage fixture keyboard did not select API cost")
-            cost_box = role_fill.bounding_box()
-            if cost_box is None or abs(token_box["width"] - cost_box["width"]) < 4:
+            cost_control.focus()
+            cost_control.press("ArrowLeft")
+            if not token_control.is_checked():
+                raise RuntimeError("usage fixture keyboard did not select Tokens")
+            token_box = role_fill.bounding_box()
+            if token_box is None or abs(cost_box["width"] - token_box["width"]) < 4:
                 raise RuntimeError(
-                    "usage fixture API cost scale did not change bar geometry"
+                    "usage fixture Tokens scale did not change project bar geometry"
                 )
-            model_cost_box = model_fill.bounding_box()
+            model_token_box = model_fill.bounding_box()
             if (
-                model_cost_box is None
-                or abs(model_token_box["width"] - model_cost_box["width"]) < 4
+                model_token_box is None
+                or abs(model_cost_box["width"] - model_token_box["width"]) < 4
             ):
                 raise RuntimeError(
-                    "usage fixture API cost scale did not change Model Mix geometry"
+                    "usage fixture Tokens scale did not change Model Mix geometry"
                 )
 
             tracks = frame.locator(".mix-track")
@@ -328,10 +328,10 @@ def _exercise_usage_chart_controls(page: Page) -> None:
                     "usage fixture Model Mix tracks do not share equal bounds"
                 )
 
-            cost_control.focus()
-            cost_control.press("ArrowLeft")
-            if not token_control.is_checked():
-                raise RuntimeError("usage fixture keyboard did not restore Tokens")
+            token_control.focus()
+            token_control.press("ArrowRight")
+            if not cost_control.is_checked():
+                raise RuntimeError("usage fixture keyboard did not restore API cost")
 
     _set_viewport(page, VIEWPORT)
 

diff --git a/scripts/check_allowance_ui.py b/scripts/check_allowance_ui.py
@@ -129,10 +129,12 @@ def _check_report_content(page, report, state, theme, history_colors):
     assert page.get_by_role("meter").count() == len(report["status"]["active_buckets"])
     for bucket in report["status"]["active_buckets"]:
         identity = f'{bucket["limit_id"]} · {duration_label(bucket["duration_minutes"])}'
-        meter = page.get_by_role("meter", name=f"{identity} percentage used")
+        meter = page.get_by_role("meter", name=f"{identity} percentage remaining")
         assert meter.count() == 1
         used = bucket["used_percent"]
-        assert meter.get_attribute("aria-valuetext") == f"{used:g}% used"
+        remaining = 100 - used
+        assert meter.get_attribute("value") == f"{remaining:g}"
+        assert meter.get_attribute("aria-valuetext") == f"{remaining:g}% remaining"
         assert page.locator(".allowance-bucket-usage").filter(
             has_text=f"{used:g}% used · {100 - used:g}% remaining"
         ).count() == 1
@@ -223,18 +225,21 @@ def _contrast_ratio(first, second):
 def _check_meter_visuals(page, browser_name):
     for theme in THEMES:
         for used in VALUES:
+            remaining = 100 - used
             report = deepcopy(allowance_fixture())
             report["status"]["active_buckets"] = [
                 dict(report["status"]["active_buckets"][0], used_percent=used)
             ]
             page.set_viewport_size({"width": 360, "height": 240})
             page.set_content(_document(report, theme))
-            meter = page.get_by_role("meter", name="codex · 7 days percentage used")
+            meter = page.get_by_role(
+                "meter", name="codex · 7 days percentage remaining"
+            )
             assert meter.count() == 1
             assert meter.get_attribute("min") == "0"
             assert meter.get_attribute("max") == "100"
-            assert meter.get_attribute("value") == str(used)
-            assert meter.get_attribute("aria-valuetext") == f"{used}% used"
+            assert meter.get_attribute("value") == str(remaining)
+            assert meter.get_attribute("aria-valuetext") == f"{remaining}% remaining"
             assert page.locator(".allowance-bucket-usage").inner_text() == (
                 f"{used}% used · {100 - used}% remaining"
             )
@@ -262,9 +267,9 @@ def _check_meter_visuals(page, browser_name):
             image = Image.open(BytesIO(meter.screenshot())).convert("RGB")
             center_row = [image.getpixel((x, image.height // 2)) for x in range(image.width)]
             colored_fraction = sum(pixel == accent_rgb for pixel in center_row) / image.width
-            assert abs(colored_fraction - used / 100) <= 0.04, (
+            assert abs(colored_fraction - remaining / 100) <= 0.04, (
                 f"{browser_name}/{theme} meter at {used}% has {colored_fraction:.3f} "
-                "accent fill across its center row"
+                "accent fill across its center row; expected remaining allowance"
             )
 
 

diff --git a/tests/test_github_actions_workflow.py b/tests/test_github_actions_workflow.py
@@ -159,7 +159,7 @@ def test_preview_artifacts_include_hash_based_integrity_metadata(tmp_path: Path)
         )
 
 
-def test_release_metadata_is_consistently_2_8_7() -> None:
+def test_release_metadata_is_consistently_versioned() -> None:
     pyproject = tomllib.loads(PYPROJECT.read_text(encoding="utf-8"))
     uv_lock = tomllib.loads(UV_LOCK.read_text(encoding="utf-8"))
     extension = json.loads(EXTENSION_PACKAGE.read_text(encoding="utf-8"))
@@ -192,7 +192,7 @@ def test_release_metadata_is_consistently_2_8_7() -> None:
         cargo["package"]["version"],
         rust_package["version"],
     }
-    assert versions == {"2.8.7"}
+    assert versions == {extension["version"]}
     assert "scripts" not in pyproject["project"]
     assert "preview" not in extension
 

diff --git a/tests/test_release_history.py b/tests/test_release_history.py
@@ -10,6 +10,7 @@ CHANGELOGS = (ROOT / "CHANGELOG.md", ROOT / "extensions/vscode/CHANGELOG.md")
 SUPPORT_DOCS = (ROOT / "SUPPORT.md", ROOT / "extensions/vscode/SUPPORT.md")
 
 ROOT_RELEASE_DATES = {
+    "2.8.8": "2026-09-25",
     "2.8.7": "2026-09-25",
     "2.8.6": "2026-09-25",
     "2.8.5": "2026-09-24",
@@ -92,6 +93,7 @@ ROOT_RELEASE_DATES = {
     "0.1.0": "2026-05-19",
 }
 EXTENSION_RELEASE_VERSIONS = (
+    "2.8.8",
     "2.8.7",
     "2.8.6",
     "2.8.5",

diff --git a/tests/test_report_storage.py b/tests/test_report_storage.py
@@ -124,7 +124,8 @@ def test_task_storage_empty_state_does_not_replace_usage_empty_state(tmp_path: P
 
     assert "No task storage was found for the selected projects." in html
     assert "No Codex usage was found for this report range." not in html
-    assert "No daily usage found for this range." in html
+    assert "No daily usage found for this range." not in html
+    assert "Daily Details" not in html
 
 
 def _render(

diff --git a/src/codex_usage/__init__.py b/src/codex_usage/__init__.py
@@ -1,3 +1,3 @@
 """Private capture and ledger core for the Codex Usage native app."""
 
-__version__ = "2.8.7"
+__version__ = "2.8.8"

diff --git a/docs/release.md b/docs/release.md
@@ -1,16 +1,21 @@
-# 2.8.7 Distribution Checklist
+# 2.8.8 Distribution Checklist
 
-Version 2.8.7 publishes standalone macOS Apple Silicon and Windows x64 VSIX
+Version 2.8.8 publishes standalone macOS Apple Silicon and Windows x64 VSIX
 packages to the VS Code Marketplace. Each VSIX bundles its matching collector
 and does not require the native application.
 
-For the device-identity capture failure corrected in 2.8.7, install the
-matching updated VSIX, reload VS Code so its bundled collector restarts, then
-use **Capture Usage**. If an optional native background collector owns the
-active home, update that preview and re-register its background agent before
-capturing. Preserve the existing ledger; **Reset Local Data** is not a recovery
-step. A verified source continuation appends to its trusted generation, while
-a changed processed boundary promotes a distinct generation.
+The Usage report shows remaining allowance in the Plan Allowance meter, defaults
+the shared **Compare by** control to API cost, and omits the one-point daily
+trend and details for Today and Yesterday presets. Custom ranges retain daily
+details.
+
+The 2.8.8 packages also include the device-identity capture correction from
+2.8.7. Preserve the existing ledger, install the matching updated VSIX, reload
+VS Code so its bundled collector restarts, then use **Capture Usage**. If an
+optional native background collector owns the active home, update that preview
+and re-register its background agent before capturing. **Reset Local Data** is
+not a recovery step. A verified source continuation appends to its trusted
+generation, while a changed processed boundary promotes a distinct generation.
 
 The same workflow builds unsigned native DMG and NSIS previews with SHA-256
 integrity metadata. Native previews are retained as GitHub Actions artifacts for
@@ -90,8 +95,8 @@ sizes (1440 x 900 and 760 x 900). Confirm:
 - Usage clearly shows last/next capture, pending work, incomplete baseline, and
   stale-source states;
 - Project Breakdown and Model Mix share one accessible **Compare by** control,
-  use distinct stable colors, preserve role-level API-equivalent cost, and
-  switch coherently between token-scaled and cost-scaled bars;
+  default to API cost, use distinct stable colors, preserve role-level
+  API-equivalent cost, and switch coherently to token-scaled bars;
 - Plan Allowance stays account-wide under project/date filters, exposes active
   buckets, shows a valid current estimate or an explicitly dated same-series
   Previous window fallback, and exposes newest-first allowance history with
@@ -129,8 +134,8 @@ uv run python scripts/check_allowance_ui.py
 ```
 
 The allowance UI gate runs the native `<meter>` renderer in Chromium, WebKit,
-and Firefox. It checks native meter semantics and explicit used/remaining text,
-accent fill direction at 0%, 17%, 83%, and 100%, theme contrast, keyboard focus,
+and Firefox. It checks native meter semantics, used/remaining text, remaining
+allowance fill at 0%, 17%, 83%, and 100% used, theme contrast, keyboard focus,
 and narrow viewport overflow. Visually review the canonical Usage images in Day
 and Night at both wide and narrow widths, plus the Task Storage image, before
 committing them. The automated gate catches geometry and overflow regressions,
@@ -159,16 +164,16 @@ as a runtime dependency.
 
 ## Marketplace Publication
 
-Confirm all Python, npm, Cargo, Tauri, and lockfile versions are `2.8.7`, both
-changelogs have a dated `2.8.7` entry, and the candidate commit is contained in
+Confirm all Python, npm, Cargo, Tauri, and lockfile versions are `2.8.8`, both
+changelogs have a dated `2.8.8` entry, and the candidate commit is contained in
 `origin/main`.
 
-The only valid release tag for this version is `v2.8.7`. Create and push that
+The only valid release tag for this version is `v2.8.8`. Create and push that
 exact tag after the non-publishing gate succeeds:
 
 ```bash
-git tag v2.8.7
-git push origin v2.8.7
+git tag v2.8.8
+git push origin v2.8.8
 ```
 
 The tag reruns every platform gate and publishes these immutable Marketplace
@@ -182,8 +187,8 @@ codex-usage-companion-win32-x64.vsix
 The native jobs also produce these run-scoped artifacts:
 
 ```text
-Codex-Usage-2.8.7-macos-arm64-unsigned-preview.dmg
-Codex-Usage-2.8.7-windows-x64-unsigned-preview-setup.exe
+Codex-Usage-2.8.8-macos-arm64-unsigned-preview.dmg
+Codex-Usage-2.8.8-windows-x64-unsigned-preview-setup.exe
 preview-integrity.json
 SHA256SUMS.txt
 ```

diff --git a/CHANGELOG.md b/CHANGELOG.md
@@ -2,6 +2,15 @@
 
 ## Unreleased
 
+## 2.8.8 - 2026-09-25
+
+- Show remaining allowance in the native Plan Allowance meter while preserving
+  used/remaining text and matching native accessible value semantics.
+- Default the shared Project Breakdown and Model Mix comparison to API cost;
+  keep Tokens selectable across both charts.
+- Omit Daily Cost Trend and Daily Details for the one-point Today and Yesterday
+  presets while retaining the Hourly Heatmap and all custom ranges.
+
 ## 2.8.7 - 2026-09-25
 
 - Verify the saved source head and processed boundary before continuing a

diff --git a/extensions/vscode/CHANGELOG.md b/extensions/vscode/CHANGELOG.md
@@ -2,6 +2,15 @@
 
 ## Unreleased
 
+## 2.8.8 - 2026-09-25
+
+- Show remaining allowance in the native Plan Allowance meter with matching
+  accessible semantics while keeping both used and remaining values visible.
+- Default the shared Project Breakdown and Model Mix comparison to API cost;
+  keep Tokens selectable across both charts.
+- Hide Daily Cost Trend and Daily Details for Today and Yesterday presets only;
+  custom ranges and the Hourly Heatmap remain available.
+
 ## 2.8.7 - 2026-09-25
 
 - Verify the saved source head and processed boundary before continuing a
